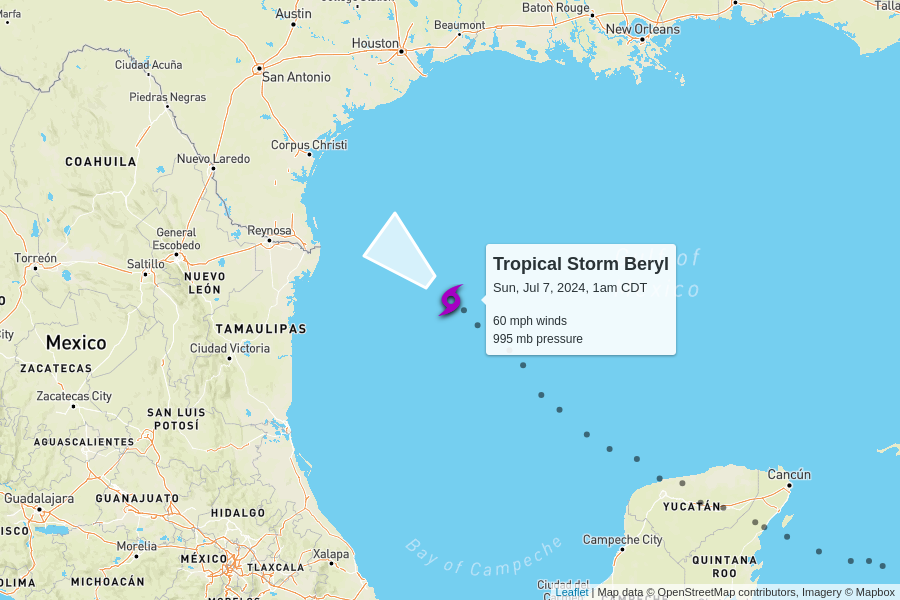
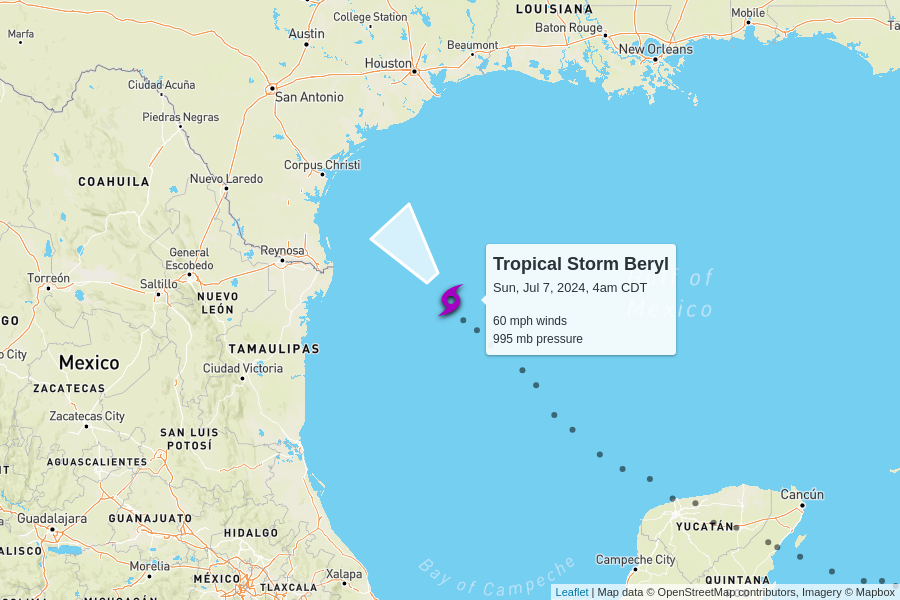
automatic update

diff --git a/docs/index.html b/docs/index.html
@@ -102,7 +102,7 @@
         <td colspan="6" class="storm category-0" >
           <h2>
             Tropical Storm Beryl
-            <p class="updated">last updated <span data-time>2024-07-07T06:00:00.000Z</span></p>
+            <p class="updated">last updated <span data-time>2024-07-07T09:00:00.000Z</span></p>
           </h2>
         </td>
       </tr>
@@ -118,11 +118,11 @@
       <tr>
         <td class="spacer"></td>
         <td>60 mph<br>0 mph since last update</td>
-        <td>995 mb<br>+2 mb since last update</td>
+        <td>995 mb<br>0 mb since last update</td>
         <td>
-          13 mph to the northwest
+          12 mph to the northwest
           <br/>
-          <span style="display: inline-block; font-size: 1.5em; transform: rotate(310deg);">↑</span>
+          <span style="display: inline-block; font-size: 1.5em; transform: rotate(320deg);">↑</span>
         </td>
         <td><a href="https://raw.githubusercontent.com/mgwalker/atlantic-hurricanes/main/data/csv/AL022024.csv">AL022024.csv</a></td>
         <td><a href="https://www.nhc.noaa.gov/archive/2024/BERYL.shtml?">NHC advisories</a></td>
